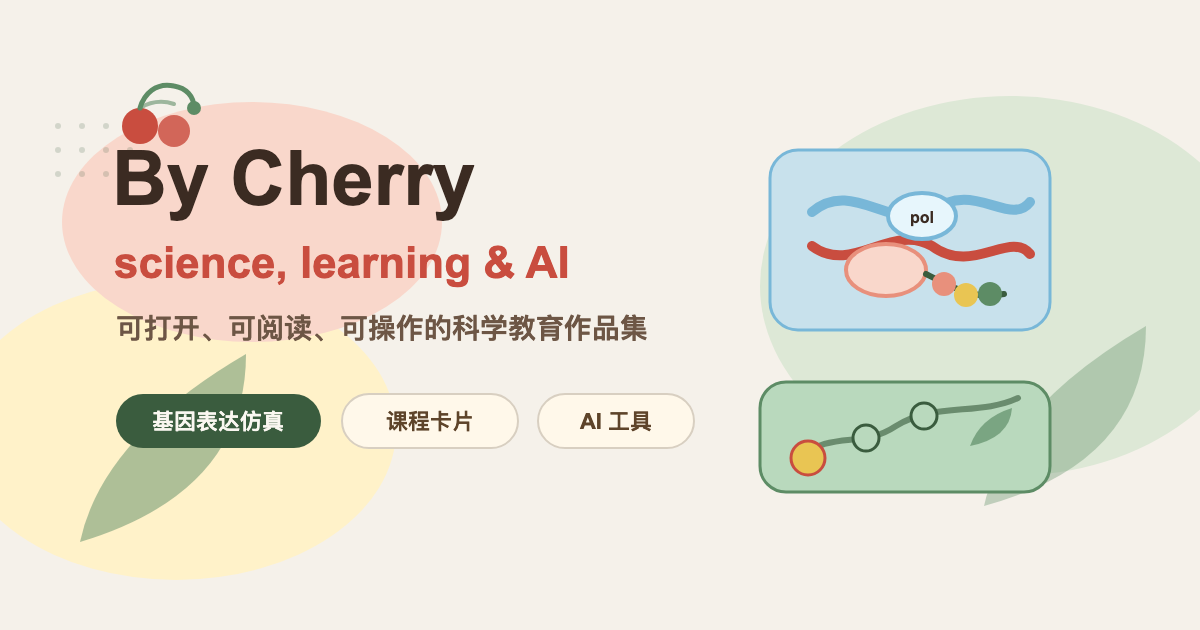
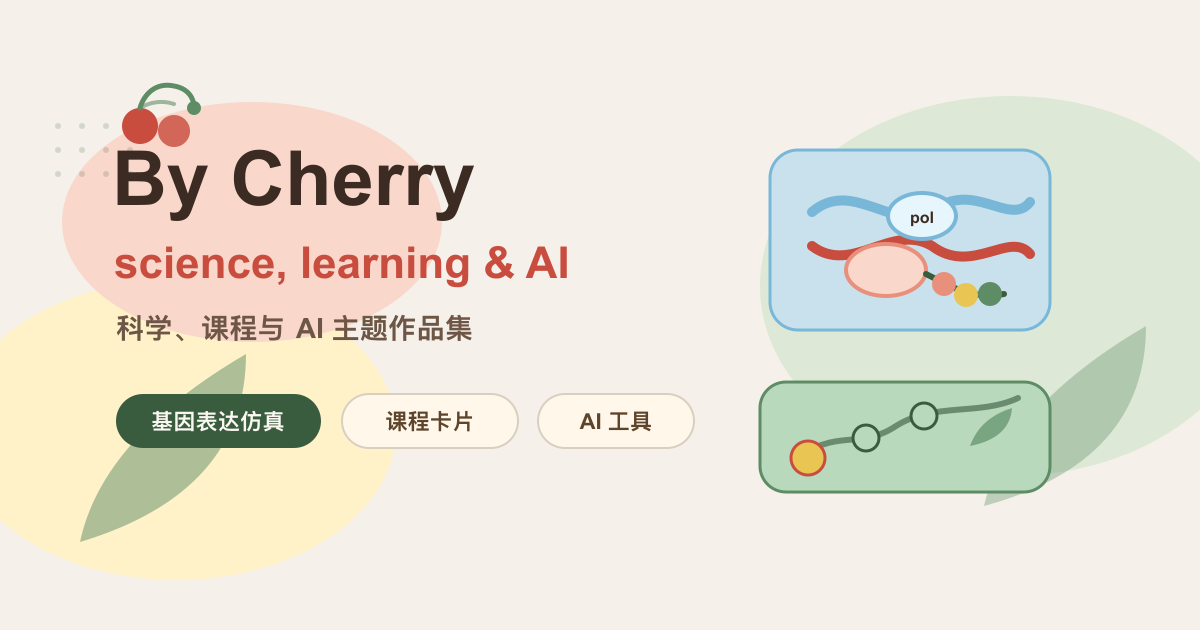
Refresh social preview copy

diff --git a/index.html b/index.html
@@ -17,7 +17,7 @@
       <link rel="manifest" href="/site.webmanifest" />
       <link rel="canonical" href="https://bycherry.me/" />
       <meta property="og:title" content="By Cherry | 科学、课程与 AI" />
-      <meta property="og:description" content="可打开、可阅读、可操作的科学教育、AI 工具和课程设计作品集。" />
+      <meta property="og:description" content="科学、课程与 AI 主题作品集，收录科学教育、学习工具、课程卡片和科研转译记录。" />
       <meta property="og:type" content="website" />
       <meta property="og:locale" content="zh_CN" />
       <meta property="og:site_name" content="By Cherry" />
@@ -30,7 +30,7 @@
       <meta property="og:image:alt" content="By Cherry 科学、课程与 AI 作品集预览图" />
       <meta name="twitter:card" content="summary_large_image" />
       <meta name="twitter:title" content="By Cherry | 科学、课程与 AI" />
-      <meta name="twitter:description" content="可打开、可阅读、可操作的科学教育、AI 工具和课程设计作品集。" />
+      <meta name="twitter:description" content="科学、课程与 AI 主题作品集，收录科学教育、学习工具、课程卡片和科研转译记录。" />
       <meta name="twitter:image" content="https://bycherry.me/social-preview.png" />
       <meta name="twitter:image:alt" content="By Cherry 科学、课程与 AI 作品集预览图" />
       <script type="application/ld+json" data-schema="bycherry-page">